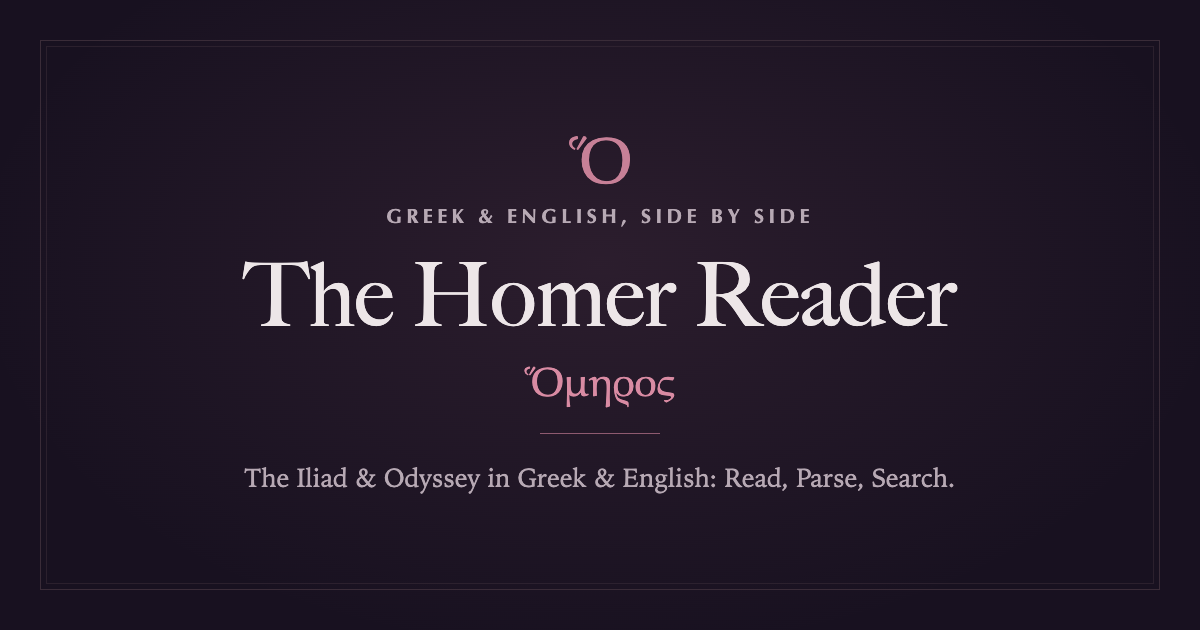
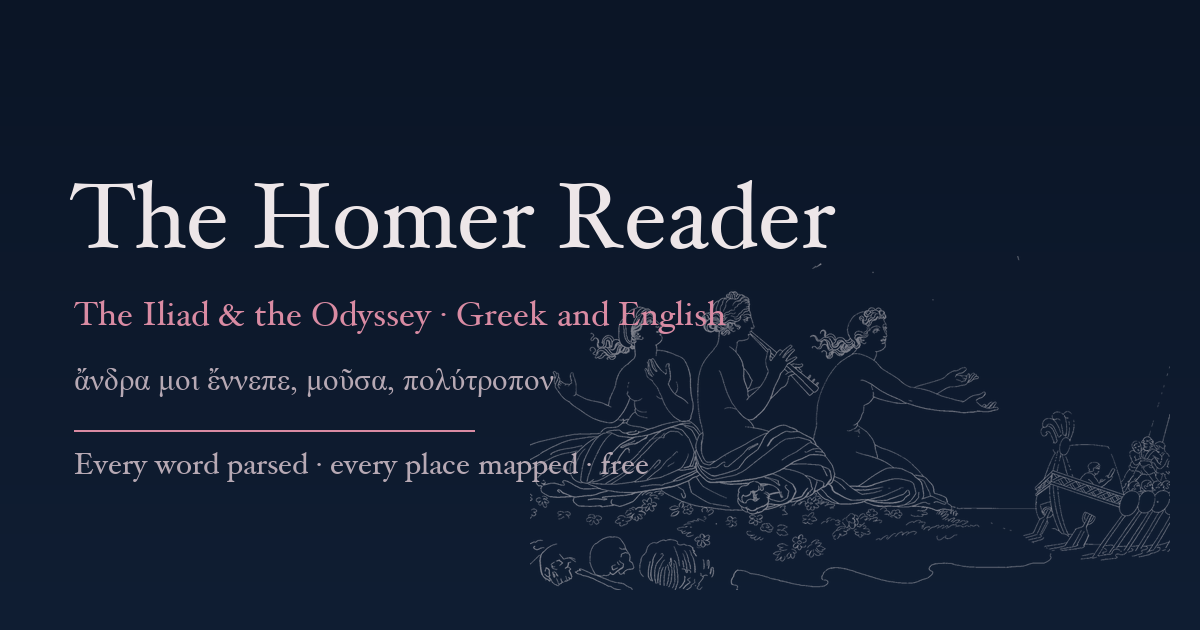
art: Flaxman goes live — cartouche plates, hero motifs, social card
The per-book plate renders in the book cartouche's right margin (78px,
right-center, contain-masked, ink via --flaxman-ink: engraving ink on
light, bone at 0.67 on dark per John's ink-A pick; desktop only,
plateless books unchanged - though all 48 books currently have
plates). Home hero gains distinct bone-ink motifs behind each panel
(Thetis with the armor for the Iliad, raised per John; the Sirens for
the Odyssey), stars and fires untouched. New og-default.png: 1200x630,
Sirens in bone on the hero navy, polytonic Greek epigraph. First
band-frieze placement attempt reverted in favor of the cartouche
(44px friezes read as smudge - John's "fit header dimensions" honored
at legible scale). Known pre-existing cosmetic: cartouche meta row's
bottom pixels clip under headless rendering, present on the live
pre-art build identically - filed, not an art regression. Build +
check-links: 4713 pages, 0 broken.

Claude-Session: https://claude.ai/code/session_019fJKZyanGf1z3M4EgkmHQH

diff --git a/shared/styles/global.css b/shared/styles/global.css
@@ -83,6 +83,7 @@
   --accent-light: #8C3A57;  /* Wine-dark --gold-deco role: decorative/hover-emphasis tint */
   --border:       #CFC7CC;  /* Wine-dark --rule: soft decorative hairline */
   --scene-map-sea:        #DCE7EB; /* restrained Aegean water, distinct from land */
+  --flaxman-ink:          #241827; /* engraving ink, light ground */
   --scene-map-land:       #F1EEE6; /* lifted parchment ground */
   --scene-map-coast:      #716A73; /* quiet coast boundary over either fill */
   --scene-map-label-halo: #F8F7F3; /* preserves labels across coastlines */
@@ -145,6 +146,7 @@
 @media (prefers-color-scheme: dark) {
   :root:not([data-theme]) {
     --scene-map-sea:        #132B3B; /* deep Aegean water */
+    --flaxman-ink:          rgba(237,230,232,0.67); /* ink A (John): bone, subtle, not inverted */
     --scene-map-land:       #2A2530; /* lifted dark ground */
     --scene-map-coast:      #8296A0; /* restrained coast boundary */
     --scene-map-label-halo: #17131C; /* preserves labels across coastlines */
@@ -165,6 +167,7 @@
   --accent-light: #E8A6BA;  /* Wine-dark --gold-deco dark */
   --border:       #3A2C38;  /* Wine-dark --rule dark */
   --scene-map-sea:        #132B3B; /* deep Aegean water */
+  --flaxman-ink:          rgba(237,230,232,0.67); /* ink A (John): bone, subtle, not inverted */
   --scene-map-land:       #2A2530; /* lifted dark ground */
   --scene-map-coast:      #8296A0; /* restrained coast boundary */
   --scene-map-label-halo: #17131C; /* preserves labels across coastlines */
@@ -191,6 +194,7 @@
 
 :root[data-theme="light"] {
   --scene-map-sea:        #DCE7EB; /* restrained Aegean water */
+  --flaxman-ink:          #241827; /* engraving ink, light ground */
   --scene-map-land:       #F1EEE6; /* lifted parchment ground */
   --scene-map-coast:      #716A73; /* quiet coast boundary */
   --scene-map-label-halo: #F8F7F3; /* preserves labels across coastlines */
@@ -3288,6 +3292,24 @@ body.toc-open .toc-sidebar { transform: translateX(0); }
 .contour-band path { fill: none; stroke: var(--rule-strong); stroke-width: 1; }
 .contour-band path.n2 { stroke: var(--border); }
 .contour-band path.n3 { stroke: var(--accent-light); opacity: 0.55; }
+/* Per-book Flaxman plate riding the contour band (John, 2026-07-18): sized
+   to the header band's own scale, bottom-anchored on its rule like a figure
+   on a frieze; ink via --flaxman-ink (bone at 0.67 in dark — "subtle, not
+   inverted"). Desktop only; plateless books show the band unchanged. */
+.book-plate { position: relative; }
+.plate-art {
+  position: absolute;
+  right: clamp(1rem, 3vw, 2.5rem);
+  top: 50%;
+  transform: translateY(-50%);
+  width: min(300px, 24vw);
+  height: 78px;
+  background: var(--flaxman-ink);
+  -webkit-mask: var(--art) right center / contain no-repeat;
+  mask: var(--art) right center / contain no-repeat;
+  pointer-events: none;
+}
+@media (max-width: 899.98px) { .plate-art { display: none; } }
 
 /* Cartouche: the compact double-hairline book plate (per docs/DESIGN.md
    "Book plate: compact"). Renders unconditionally (title); the argument

diff --git a/DRIFT.md b/DRIFT.md
@@ -690,3 +690,6 @@ here (pipeline rename note at top still covers the package).
 - `shared/styles/global.css` — scene-map land/sea tokens (2026-07-18):
   `--scene-map-sea/-land/-coast/-label-halo` declared in all four theme
   blocks; Homer-only (Chart Room panels), no plato counterpart.
+- `shared/styles/global.css` — Flaxman art layer (2026-07-18 launch night):
+  `--flaxman-ink` in all four theme blocks + `.plate-art` cartouche plate
+  rules. Homer-only.
